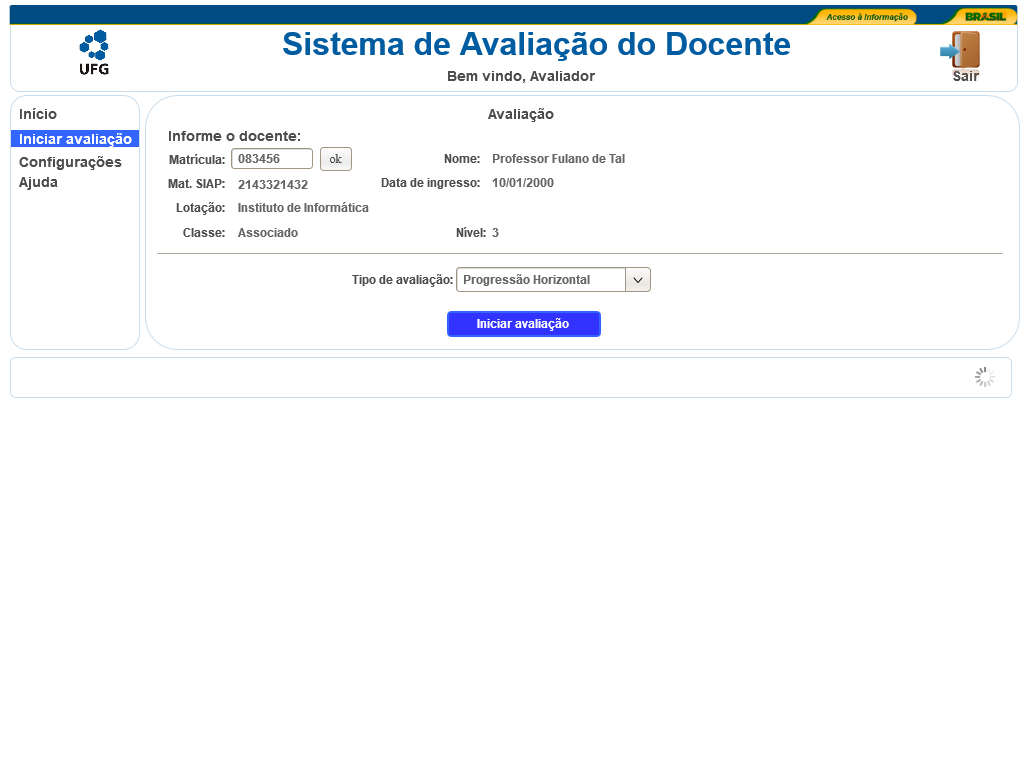
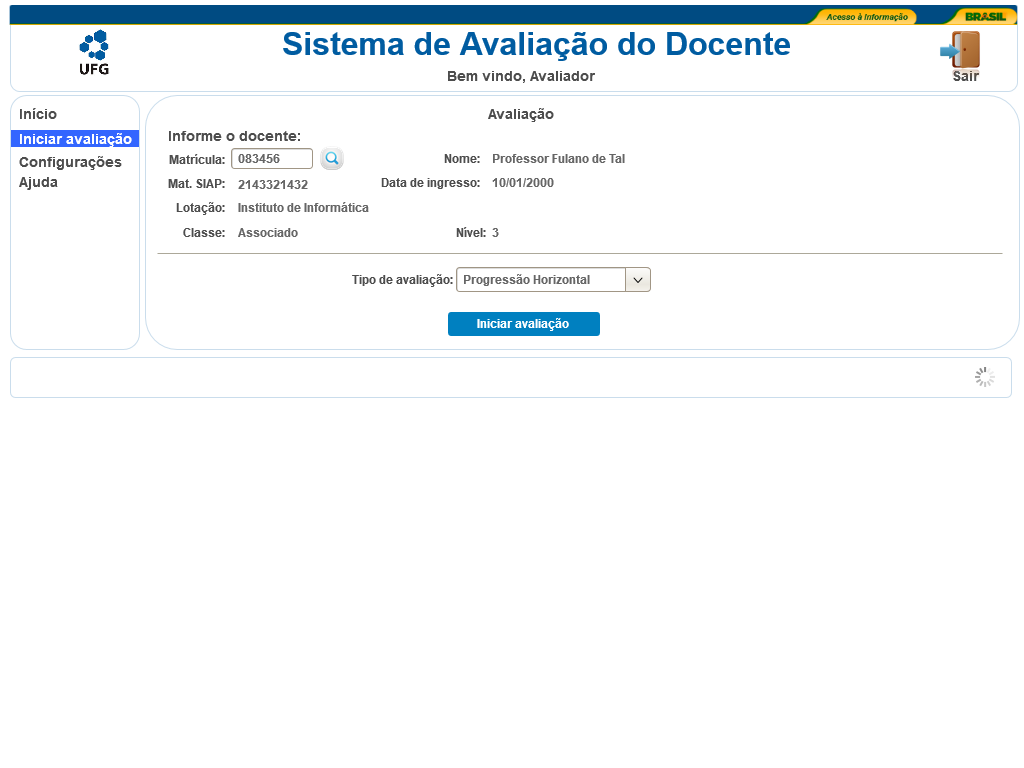
Atualização de protótipos.

Changed region(s): [[0.4375, 0.4062, 0.5938, 0.4375], [0.3125, 0.1875, 0.3438, 0.2188]]

diff --git a/trunk/MANSAD_artefatos_GPR/MANSAD_GPR_prototipos/index.html b/trunk/MANSAD_artefatos_GPR/MANSAD_GPR_prototipos/index.html
@@ -1,1 +1,1 @@
-<html xmlns="http://www.w3.org/1999/xhtml"><head><meta http-equiv="Content-Type" content="text/html; charset=UTF-8" /><title>SAD.ep</title></head><body><h1 id="documentTitle">SAD.ep</h1><p id="documentMetadata">Exported at: Sun Sep 15 2013 16:18:41 GMT-0300 (Hora oficial do Brasil)</p><div class="Page" id="login_page"><h2>Login</h2><div class="ImageContainer"><img width="1024" height="768" src="pages%5Clogin.png" usemap="#map_login" /></div><map name="map_login"><area shape="rect" coords="448,240,538,264" href="#inicio_page" title="Go to page 'Inicio'" /></map></div><div class="Page" id="inicio_page"><h2>Inicio</h2><div class="ImageContainer"><img width="1024" height="768" src="pages%5Cinicio.png" usemap="#map_inicio" /></div><map name="map_inicio"><area shape="rect" coords="936,31,984,79" href="#login_page" title="Go to page 'Login'" /><area shape="rect" coords="20,173,59,190" href="#ajuda_page" title="Go to page 'Ajuda'" /><area shape="rect" coords="20,130,133,147" href="#iniciar_avaliao_page" title="Go to page 'Iniciar avaliação'" /><area shape="rect" coords="20,153,123,170" href="#configuraes_page" title="Go to page 'Configurações'" /></map></div><div class="Page" id="iniciar_avaliao_page"><h2>Iniciar avaliação</h2><div class="ImageContainer"><img width="1024" height="768" src="pages%5Ciniciar_avaliao.png" usemap="#map_iniciar_avaliao" /></div><map name="map_iniciar_avaliao"><area shape="rect" coords="936,31,984,79" href="#login_page" title="Go to page 'Login'" /><area shape="rect" coords="320,147,352,171" href="#iniciar_avaliao_2_page" title="Go to page 'Iniciar avaliação 2'" /><area shape="rect" coords="19,173,58,190" href="#ajuda_page" title="Go to page 'Ajuda'" /><area shape="rect" coords="19,153,122,170" href="#configuraes_page" title="Go to page 'Configurações'" /><area shape="rect" coords="19,105,57,122" href="#inicio_page" title="Go to page 'Inicio'" /></map></div><div class="Page" id="iniciar_avaliao_2_page"><h2>Iniciar avaliação 2</h2><div class="ImageContainer"><img width="1024" height="768" src="pages%5Ciniciar_avaliao_2.png" usemap="#map_iniciar_avaliao_2" /></div><map name="map_iniciar_avaliao_2"><area shape="rect" coords="936,31,984,79" href="#login_page" title="Go to page 'Login'" /><area shape="rect" coords="447,311,601,337" href="#iniciar_avaliao_3_page" title="Go to page 'Iniciar avaliação 3'" /></map></div><div class="Page" id="iniciar_avaliao_3_page"><h2>Iniciar avaliação 3</h2><div class="ImageContainer"><img width="1024" height="768" src="pages%5Ciniciar_avaliao_3.png" usemap="#map_iniciar_avaliao_3" /></div><map name="map_iniciar_avaliao_3"><area shape="rect" coords="936,31,984,79" href="#login_page" title="Go to page 'Login'" /><area shape="rect" coords="19,105,57,122" href="#inicio_page" title="Go to page 'Inicio'" /><area shape="rect" coords="19,153,122,170" href="#configuraes_page" title="Go to page 'Configurações'" /><area shape="rect" coords="19,173,58,190" href="#ajuda_page" title="Go to page 'Ajuda'" /><area shape="rect" coords="168,162,184,178" href="#detalhes_n1_iniciar_avaliao_3_page" title="Go to page 'Detalhes N1 - Iniciar avaliação 3'" /><area shape="rect" coords="383,159,505,179" href="#iniciar_avaliao_3_page" title="Go to page 'Iniciar avaliação 3'" /></map></div><div class="Page" id="detalhes_n1_iniciar_avaliao_3_page"><h2>Detalhes N1 - Iniciar avaliação 3</h2><div class="ImageContainer"><img width="1024" height="768" src="pages%5Cdetalhes_n1_iniciar_avaliao_3.png" usemap="#map_detalhes_n1_iniciar_avaliao_3" /></div><map name="map_detalhes_n1_iniciar_avaliao_3"><area shape="rect" coords="936,31,984,79" href="#login_page" title="Go to page 'Login'" /><area shape="rect" coords="19,105,57,122" href="#inicio_page" title="Go to page 'Inicio'" /><area shape="rect" coords="19,153,122,170" href="#configuraes_page" title="Go to page 'Configurações'" /><area shape="rect" coords="19,173,58,190" href="#ajuda_page" title="Go to page 'Ajuda'" /><area shape="rect" coords="164.68333435058594,158.68333435058594,187.31666564941406,181.31666564941406" href="#iniciar_avaliao_3_page" title="Go to page 'Iniciar avaliação 3'" /><area shape="rect" coords="383,159,505,179" href="#iniciar_avaliao_3_page" title="Go to page 'Iniciar avaliação 3'" /></map></div><div class="Page" id="configuraes_page"><h2>Configurações</h2><div class="ImageContainer"><img width="1024" height="768" src="pages%5Cconfiguraes.png" usemap="#map_configuraes" /></div><map name="map_configuraes"><area shape="rect" coords="19,105,57,122" href="#inicio_page" title="Go to page 'Inicio'" /><area shape="rect" coords="936,31,984,79" href="#login_page" title="Go to page 'Login'" /><area shape="rect" coords="20,173,59,190" href="#ajuda_page" title="Go to page 'Ajuda'" /><area shape="rect" coords="20,130,133,147" href="#iniciar_avaliao_page" title="Go to page 'Iniciar avaliação'" /></map></div><div class="Page" id="ajuda_page"><h2>Ajuda</h2><div class="ImageContainer"><img width="1024" height="768" src="pages%5Cajuda.png" usemap="#map_ajuda" /></div><map name="map_ajuda"><area shape="rect" coords="936,31,984,79" href="#login_page" title="Go to page 'Login'" /><area shape="rect" coords="19,105,57,122" href="#inicio_page" title="Go to page 'Inicio'" /><area shape="rect" coords="20,173,59,190" href="#configuraes_page" title="Go to page 'Configurações'" /><area shape="rect" coords="20,130,133,147" href="#iniciar_avaliao_page" title="Go to page 'Iniciar avaliação'" /><area shape="rect" coords="20,153,123,170" href="#configuraes_page" title="Go to page 'Configurações'" /></map></div></body></html>
+<html xmlns="http://www.w3.org/1999/xhtml"><head><meta http-equiv="Content-Type" content="text/html; charset=UTF-8" /><title>SAD.ep</title></head><body><h1 id="documentTitle">SAD.ep</h1><p id="documentMetadata">Exported at: Sun Sep 15 2013 19:10:20 GMT-0300 (Hora oficial do Brasil)</p><div class="Page" id="login_page"><h2>Login</h2><div class="ImageContainer"><img width="1024" height="768" src="pages%5Clogin.png" usemap="#map_login" /></div><map name="map_login"><area shape="rect" coords="448,240,538,264" href="#inicio_page" title="Go to page 'Inicio'" /></map></div><div class="Page" id="inicio_page"><h2>Inicio</h2><div class="ImageContainer"><img width="1024" height="768" src="pages%5Cinicio.png" usemap="#map_inicio" /></div><map name="map_inicio"><area shape="rect" coords="936,31,984,79" href="#login_page" title="Go to page 'Login'" /><area shape="rect" coords="20,173,59,190" href="#ajuda_page" title="Go to page 'Ajuda'" /><area shape="rect" coords="20,130,133,147" href="#iniciar_avaliao_page" title="Go to page 'Iniciar avaliação'" /><area shape="rect" coords="20,153,123,170" href="#configuraes_page" title="Go to page 'Configurações'" /></map></div><div class="Page" id="iniciar_avaliao_page"><h2>Iniciar avaliação</h2><div class="ImageContainer"><img width="1024" height="768" src="pages%5Ciniciar_avaliao.png" usemap="#map_iniciar_avaliao" /></div><map name="map_iniciar_avaliao"><area shape="rect" coords="448,312,600,336" href="#iniciar_avaliao_3_page" title="Go to page 'Iniciar avaliação 3'" /><area shape="rect" coords="936,31,984,79" href="#login_page" title="Go to page 'Login'" /><area shape="rect" coords="19,173,58,190" href="#ajuda_page" title="Go to page 'Ajuda'" /><area shape="rect" coords="19,153,122,170" href="#configuraes_page" title="Go to page 'Configurações'" /><area shape="rect" coords="19,105,57,122" href="#inicio_page" title="Go to page 'Inicio'" /></map></div><div class="Page" id="iniciar_avaliao_2_page"><h2>Iniciar avaliação 2</h2><div class="ImageContainer"><img width="1024" height="768" src="pages%5Ciniciar_avaliao_2.png" usemap="#map_iniciar_avaliao_2" /></div><map name="map_iniciar_avaliao_2"><area shape="rect" coords="936,31,984,79" href="#login_page" title="Go to page 'Login'" /><area shape="rect" coords="448,312,600,336" href="#iniciar_avaliao_3_page" title="Go to page 'Iniciar avaliação 3'" /></map></div><div class="Page" id="iniciar_avaliao_3_page"><h2>Iniciar avaliação 3</h2><div class="ImageContainer"><img width="1024" height="768" src="pages%5Ciniciar_avaliao_3.png" usemap="#map_iniciar_avaliao_3" /></div><map name="map_iniciar_avaliao_3"><area shape="rect" coords="448,312,600,336" href="#iniciar_avaliao_3_page" title="Go to page 'Iniciar avaliação 3'" /><area shape="rect" coords="936,31,984,79" href="#login_page" title="Go to page 'Login'" /><area shape="rect" coords="19,105,57,122" href="#inicio_page" title="Go to page 'Inicio'" /><area shape="rect" coords="19,153,122,170" href="#configuraes_page" title="Go to page 'Configurações'" /><area shape="rect" coords="19,173,58,190" href="#ajuda_page" title="Go to page 'Ajuda'" /><area shape="rect" coords="168,162,184,178" href="#detalhes_n1_iniciar_avaliao_3_page" title="Go to page 'Detalhes N1 - Iniciar avaliação 3'" /><area shape="rect" coords="384,160,504,178" href="#iniciar_avaliao_3_page" title="Go to page 'Iniciar avaliação 3'" /></map></div><div class="Page" id="detalhes_n1_iniciar_avaliao_3_page"><h2>Detalhes N1 - Iniciar avaliação 3</h2><div class="ImageContainer"><img width="1024" height="768" src="pages%5Cdetalhes_n1_iniciar_avaliao_3.png" usemap="#map_detalhes_n1_iniciar_avaliao_3" /></div><map name="map_detalhes_n1_iniciar_avaliao_3"><area shape="rect" coords="448,501,600,525" href="#iniciar_avaliao_3_page" title="Go to page 'Iniciar avaliação 3'" /><area shape="rect" coords="384,160,504,178" href="#iniciar_avaliao_3_page" title="Go to page 'Iniciar avaliação 3'" /><area shape="rect" coords="936,31,984,79" href="#login_page" title="Go to page 'Login'" /><area shape="rect" coords="19,105,57,122" href="#inicio_page" title="Go to page 'Inicio'" /><area shape="rect" coords="19,153,122,170" href="#configuraes_page" title="Go to page 'Configurações'" /><area shape="rect" coords="19,173,58,190" href="#ajuda_page" title="Go to page 'Ajuda'" /><area shape="rect" coords="164.68333435058594,158.68333435058594,187.31666564941406,181.31666564941406" href="#iniciar_avaliao_3_page" title="Go to page 'Iniciar avaliação 3'" /></map></div><div class="Page" id="configuraes_page"><h2>Configurações</h2><div class="ImageContainer"><img width="1024" height="768" src="pages%5Cconfiguraes.png" usemap="#map_configuraes" /></div><map name="map_configuraes"><area shape="rect" coords="19,105,57,122" href="#inicio_page" title="Go to page 'Inicio'" /><area shape="rect" coords="936,31,984,79" href="#login_page" title="Go to page 'Login'" /><area shape="rect" coords="20,173,59,190" href="#ajuda_page" title="Go to page 'Ajuda'" /><area shape="rect" coords="20,130,133,147" href="#iniciar_avaliao_page" title="Go to page 'Iniciar avaliação'" /></map></div><div class="Page" id="ajuda_page"><h2>Ajuda</h2><div class="ImageContainer"><img width="1024" height="768" src="pages%5Cajuda.png" usemap="#map_ajuda" /></div><map name="map_ajuda"><area shape="rect" coords="936,31,984,79" href="#login_page" title="Go to page 'Login'" /><area shape="rect" coords="19,105,57,122" href="#inicio_page" title="Go to page 'Inicio'" /><area shape="rect" coords="20,173,59,190" href="#configuraes_page" title="Go to page 'Configurações'" /><area shape="rect" coords="20,130,133,147" href="#iniciar_avaliao_page" title="Go to page 'Iniciar avaliação'" /><area shape="rect" coords="20,153,123,170" href="#configuraes_page" title="Go to page 'Configurações'" /></map></div></body></html>
